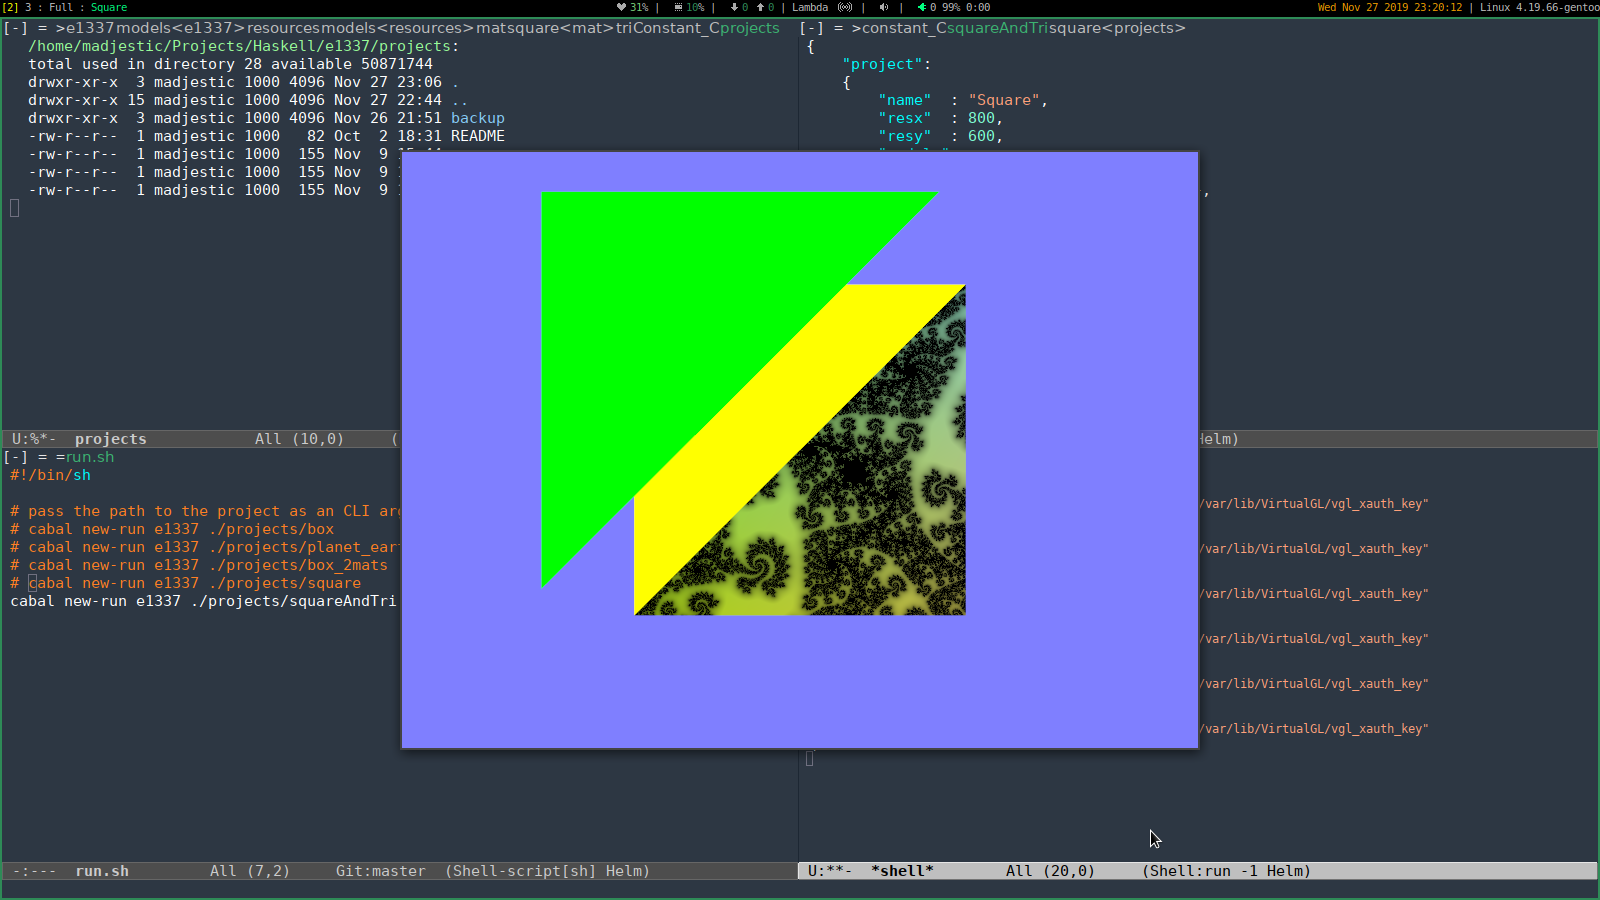
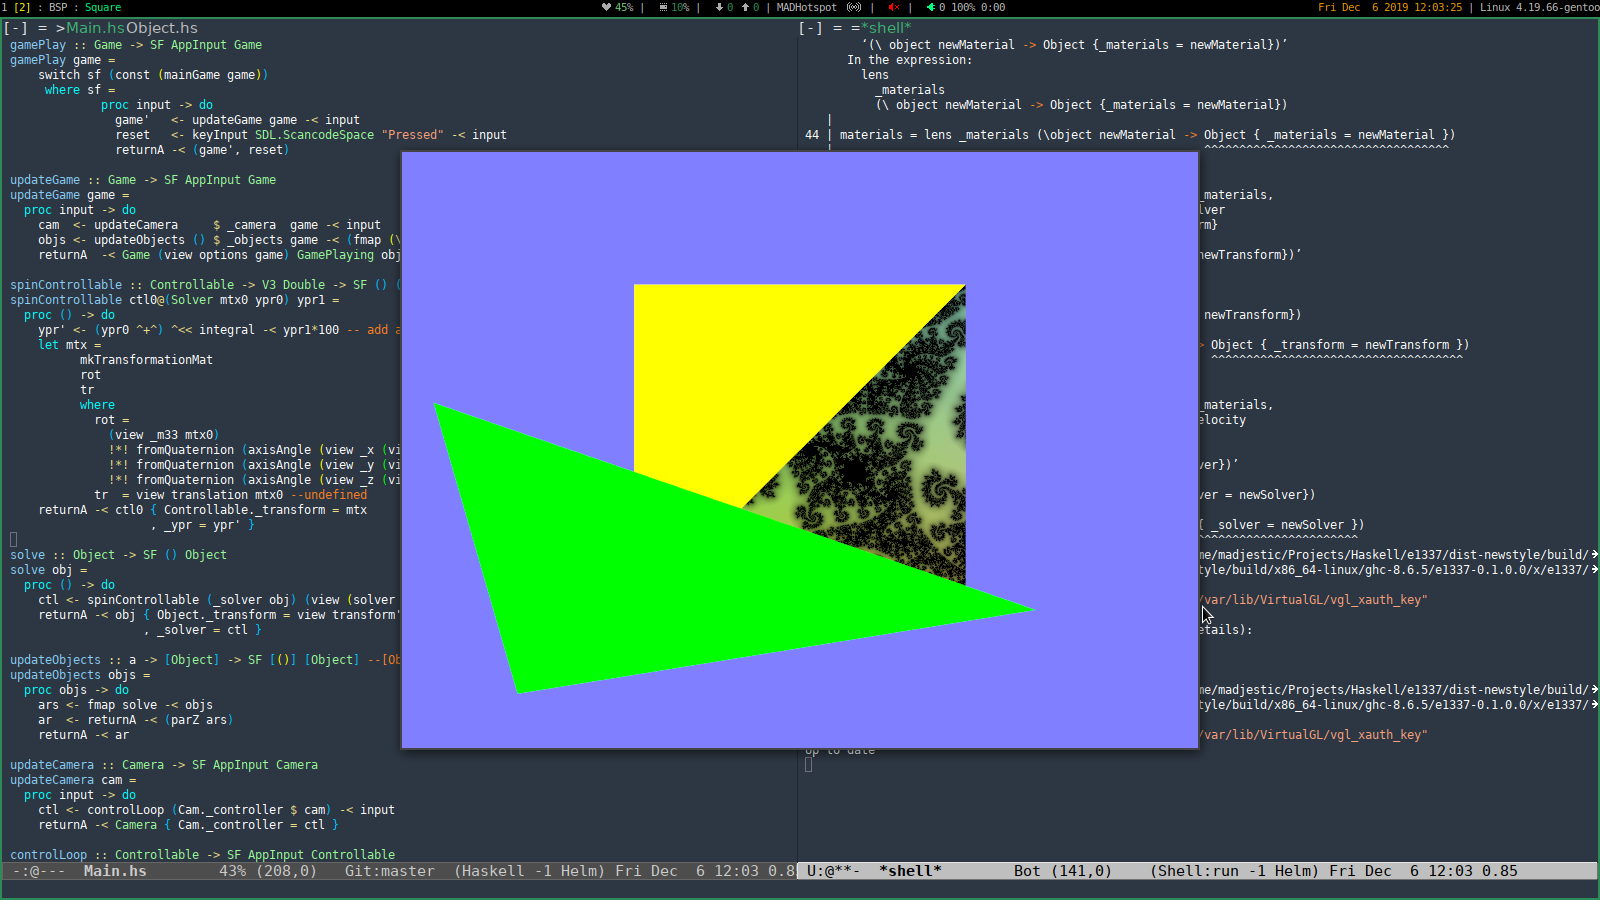
adding multi-object update loop

diff --git a/README.md b/README.md
@@ -6,9 +6,9 @@ It supports loading and rendering simple projects files, describing a model, a m
 
 * Loads one or more models.
 * Supports multiple materials per model.
-* TODO : Applies a solver-controller per object.
-* Renders a scene.
+* Applies a solver-controller per object.
 * Has a camera that supports user-input.
+* Renders a scene of objects.
 
 [a youtube demo](https://youtu.be/KVFu1DjKTCE)
 
@@ -19,6 +19,8 @@ Recent Changes:
 [added multimaterial support](https://youtu.be/EYwBZOm5GNE)
 
 [added multiobject support](https://youtu.be/CSedgiMpKzg)
+
+[added multiobject update loop](https://youtu.be/S2WPuo63r5g)
 
 # What it wants to be: A relativistic space-time-sim pilot game.
 * inspired by Strugatsky "Noon: XXII century" series.
